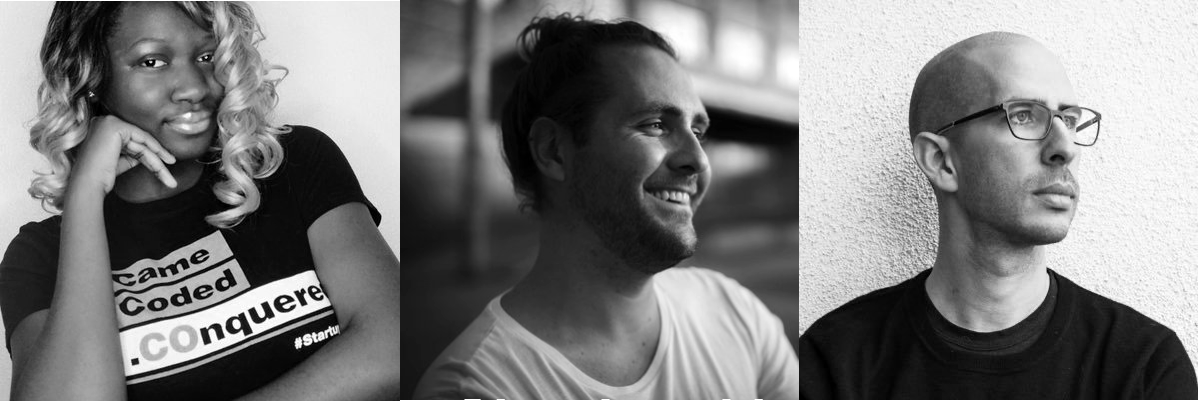
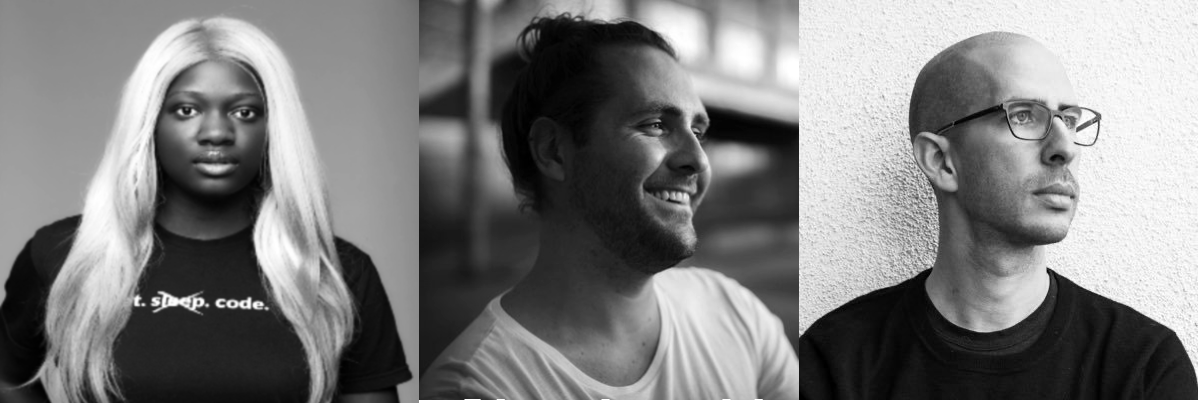
fixed images

Changed region(s): [[0.0, 0.0, 0.3706, 1.0]]

diff --git a/src/views/pages/content/august-prefunk.md b/src/views/pages/content/august-prefunk.md
@@ -28,22 +28,25 @@ Join us for a CascadiaJS pre-conference meetup, **the last one before our main e
 <div class="cta"><a href="https://ti.to/event-loop/cascadiajs-2020/">Buy Conference Ticket</a></div>
 
 ## Timirah James (she/her)
-![Timirah James](/images/timirahjames.jpg)
+<img src=/images/tjames.jpg alt="joekarlsson" width="200" style="float:left; padding-right: 20px"/>
 
-***Bio*** _Timirah James is a Developer Advocate at Cloudinary and an influencer in the evangelism space, creating awareness around STEM and diversity in tech as well as helping others build great technical skills and become great developers. She is an active contributor in the mobile and server less community and is best known for being a leader in the Los Angeles and Silicon Beach tech community and mentoring through TechniGal LA, her meetup group for women exploring the world of STEM. Teaching young girls and now women of all ages how to code. Showing and teaching them all the avenues in technology. Giving technical talks in iOS, Swift workshops for beginners and mid-level engineers._
+***Bio*** _Timirah James is a Technology Evangelist and influencer creating awareness around STEM and diversity in tech as well as helping others build great technical skills and become great developers. She’s best known for being a leader in the Los Angeles and Silicon Beach tech community, her active roles in the hackathon realm, the mobile and serverless community, and mentoring through TechniGal LA, her meetup for women exploring the world of STEM._ 
+
+_Fun fact: She is also a noted singer-songwriter and recently released “Coderitis,” a song about her love for technology and innovation, which can be found on SoundCloud and Spotify._
 
 
 ## Joe Karlsson(he/they)
-![Joe Karlsson](/images/joekarlsson.jpg)
+<img src=/images/joekarlsson.jpg alt="joekarlsson" width="200" style="float:left; padding-right: 20px"/>
 
-***Bio*** _Joe Karlsson is a software engineer turned Developer Advocate at MongoDB. He comes from the frozen tundra of Minneapolis, Minnesota (and yes, it does get really cold here, and no, not everyone here has the accent from the movie, Fargo 😝). Joe has been primarily a Node and JavaScript engineer. He has been writing, teaching, and talking about code his entire career. Sharing what he knows and continuing to learn about programming is truly the thing he loves doing the most.   Joe is the co-creator of open source software, including bechdel.io, a web app that tells you if a movie script passes the Bechdel Test or not. In his free time, he is usually drinking Gin and Tonics, eating at a new restaurant, or tinkering on a new art project or open source project._
+***Bio*** _Joe Karlsson is a software engineer turned Developer Advocate at MongoDB. He comes from the frozen tundra of Minneapolis, Minnesota (and yes, it does get really cold here, and no, not everyone here has the accent from the movie, Fargo 😝). Joe has been primarily a Node and JavaScript engineer. He has been writing, teaching, and talking about code his entire career. Sharing what he knows and continuing to learn about programming is truly the thing he loves doing the most. Joe is the co-creator of open source software, including bechdel.io, a web app that tells you if a movie script passes the Bechdel Test or not. In his free time, he is usually drinking Gin and Tonics, eating at a new restaurant, or tinkering on a new art project or open source project._
+
 
 ***Bechdel.io: How We Used JavaScript To Help Make Film More Inclusive*** This collaborative digital humanities project is the product of a shared passion for film, feminism, and the creative potential of technology. By combining the talents and interests of a scholar and a software engineer, we’ve created an innovative data mining tool for feminist film analysis.
 
 ## David Guttman(he/him)
-![David Guttman](/images/davidguttman.jpeg)
+<img src=/images/davidguttman.jpeg alt="davidguttman" width="200" style="float: left; padding-right: 20px"/>
 
-***Bio*** _As a CTO and software architect, David has led teams of engineers to ship projects like ultra-high-scale ad servers handling over 10 billion requests per day, online learning systems, white-label performance marketing SAAS platforms, and Project Matterhorn, the system that would eventually become Disney.com._
+***Bio*** _David is the author of two popular JavaScript books: Fullstack React and Fullstack Node.js and many widely-used open-source projects. He has over 90 open-source packages on npm and over 130 repositories on Github. David has given talks at many tech events and conferences like JSConf and JSFest. As a CTO and software architect, David has led teams of engineers to ship projects like ultra-high-scale ad servers handling over 10 billion requests per day, online learning systems, white-label performance marketing SAAS platforms, and Project Matterhorn, the system that would eventually become Disney.com._
 
 ***js.la to js.online: Meetups & MMORPGs*** js.la had been a monthly gathering of LA’s most interesting JS devs for 8 years. Once the lockdown hit, we needed to figure out how to keep the community together without losing that special something. Would it be Zoom? Twitch? A bespoke React-based 90’s JRPG engine/audio conference app? I’ll tell you all about it. 
 
